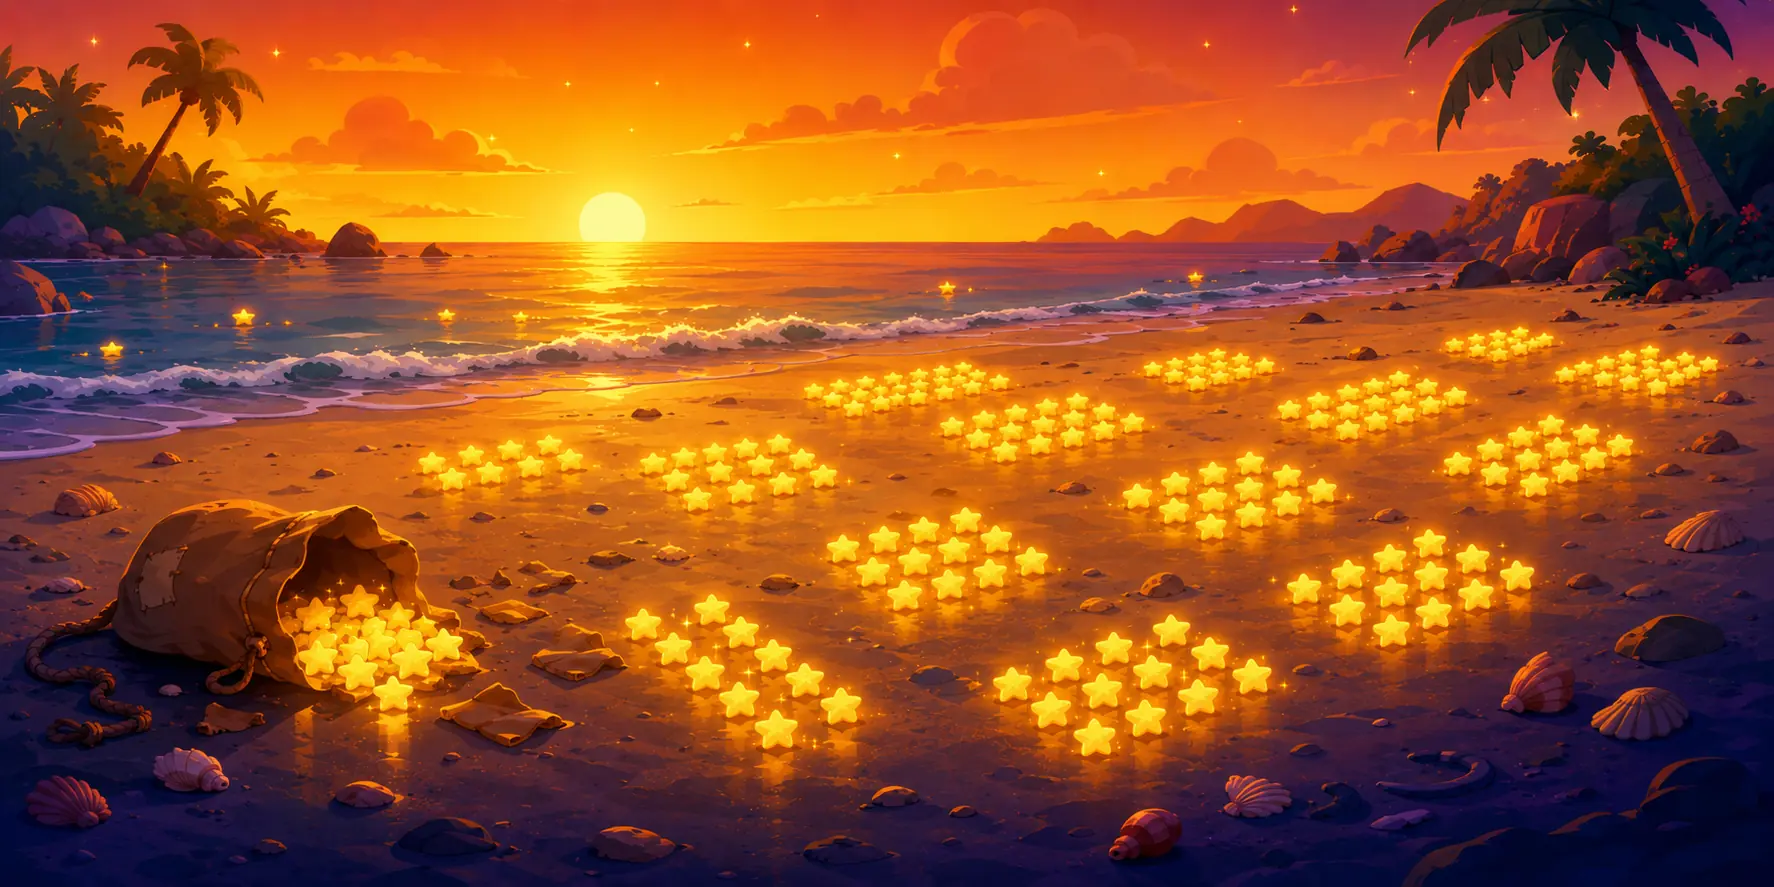
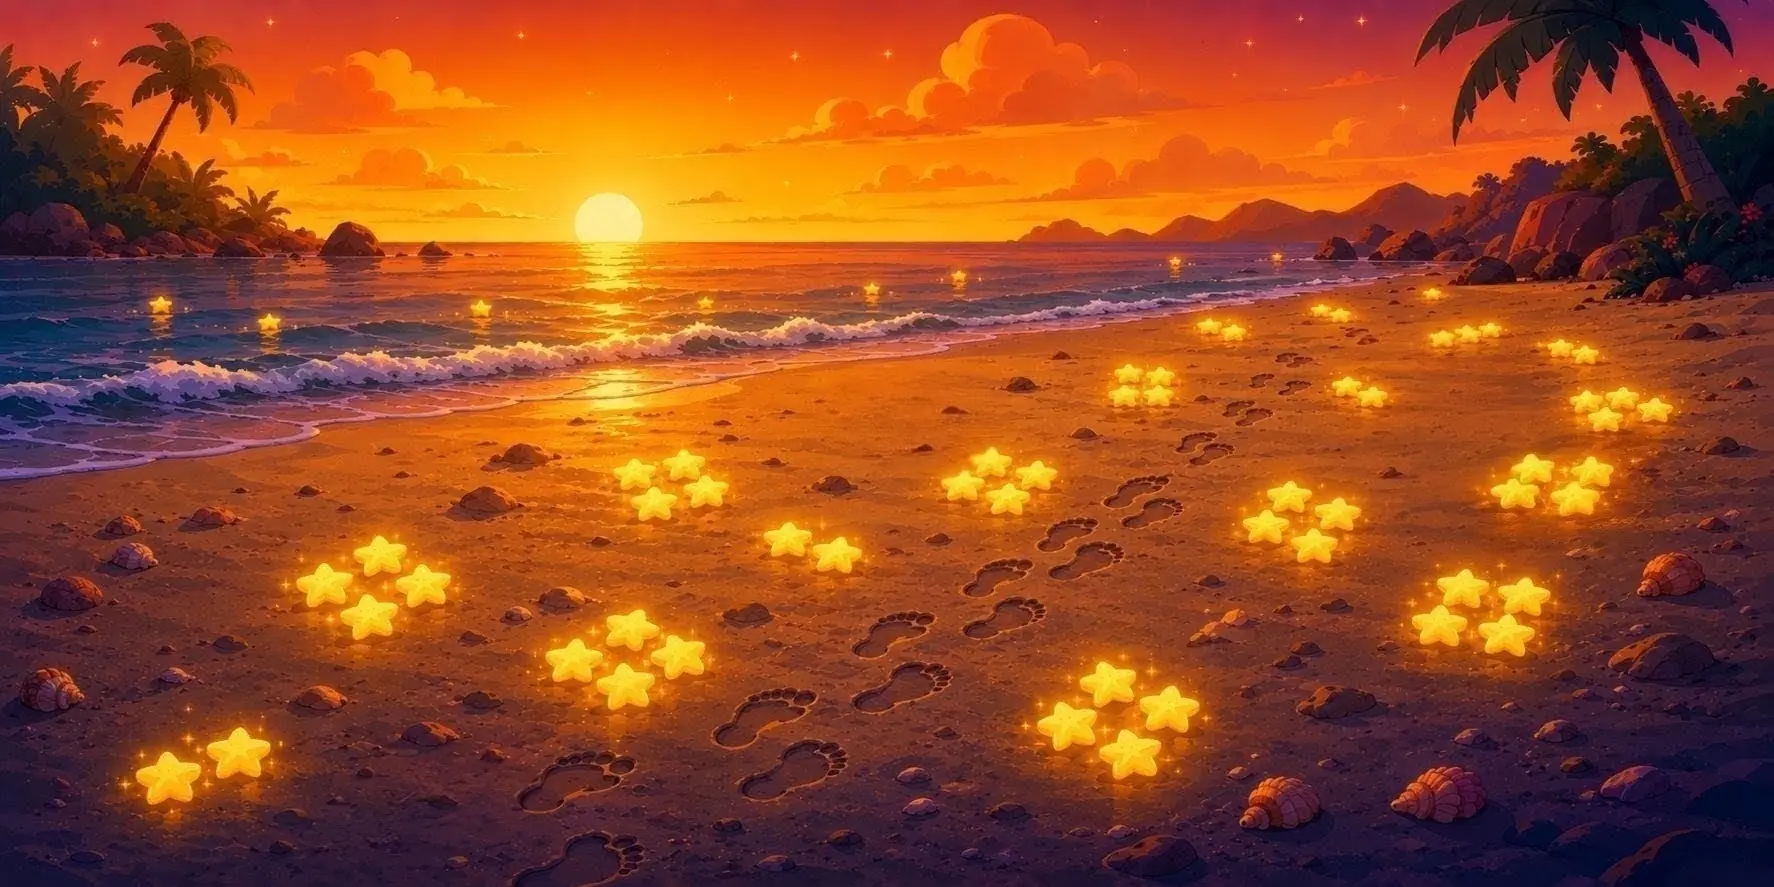
Updated beach match scene: star clusters spilling along the footprint trail
Swap in David's revised beach-4 art — little clusters of glowing stars
scattered beside the goblin's footprints across the sand, matching "stars
are spilling out in neat little rows" (and tying into the beach's footprint
trail motif). Focus the story/tip framing at 45% so the sunset, trail and
clusters all sit in the phone crop.

Claude-Session: https://claude.ai/code/session_011eGCYFeNwhvYr3UXqKUAL8

diff --git a/src/data/regions.ts b/src/data/regions.ts
@@ -623,8 +623,9 @@ const LEVEL_TIPS: Record<string, TipStep[][]> = {
   ],
 }
 
-// The mountain's star-stairs scene puts its staircase right of centre.
-REGIONS[1].levels[MATCH_AT.mountain].artX = 70
+// Some match scenes put their subject away from the left edge.
+REGIONS[0].levels[MATCH_AT.beach].artX = 45 // spilled star trail runs through the centre
+REGIONS[1].levels[MATCH_AT.mountain].artX = 70 // star stairs right of centre
 
 const ALL_REGIONS = [...REGIONS, ...EARLY_REGIONS]
 for (const r of ALL_REGIONS) {
